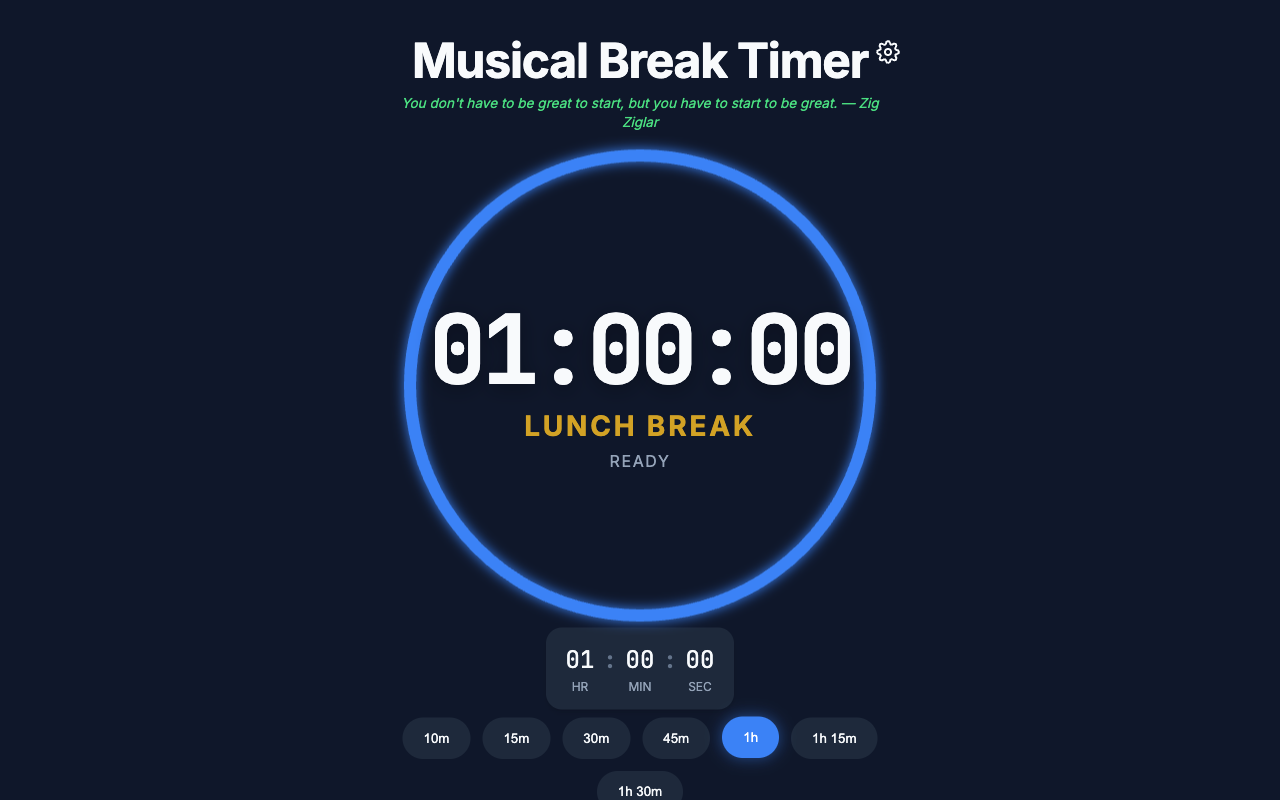
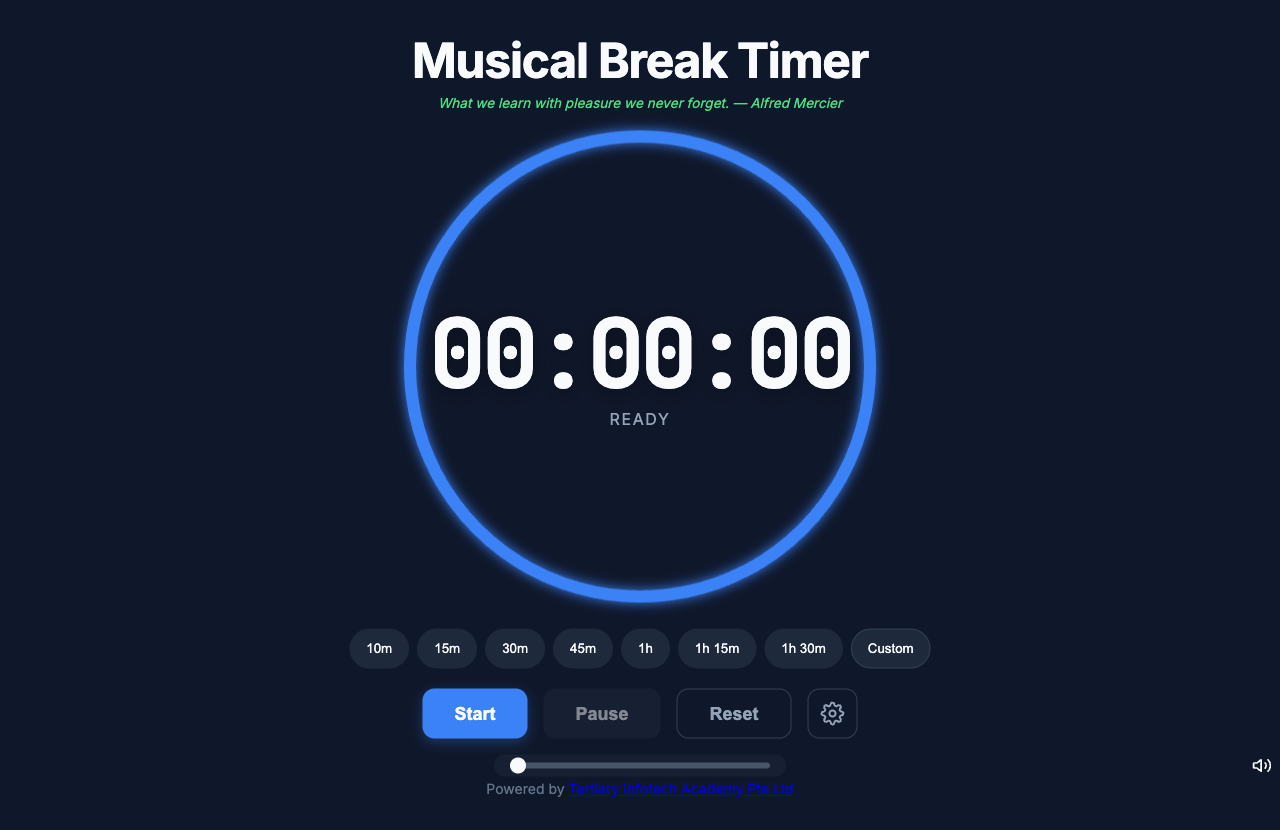
feat: one-row presets, Custom HR:MIN time, settings gear beside Reset
- Put all presets (10m to 1h 30m) on a single row; scrolls sideways on narrow screens
- Add a Custom button that reveals an HR:MIN input (seconds field removed)
- Inputs select on focus and keep two digits, so typing over "00" gives "20"
- Move the settings gear from the header to the right of the Reset button
- Update README, user guide and screenshot

diff --git a/index.html b/index.html
@@ -18,13 +18,6 @@
         <header>
             <h1>Musical Break Timer</h1>
             <p id="motivational-quote"></p>
-            <button id="settings-btn" class="icon-button" aria-label="Settings">
-                <svg xmlns="http://www.w3.org/2000/svg" width="24" height="24" viewBox="0 0 24 24" fill="none"
-                    stroke="currentColor" stroke-width="2" stroke-linecap="round" stroke-linejoin="round">
-                    <circle cx="12" cy="12" r="3"></circle>
-                    <path d="M19.4 15a1.65 1.65 0 0 0 .33 1.82l.06.06a2 2 0 0 1 0 2.83 2 2 0 0 1-2.83 0l-.06-.06a1.65 1.65 0 0 0-1.82-.33 1.65 1.65 0 0 0-1 1.51V21a2 2 0 0 1-2 2 2 2 0 0 1-2-2v-.09A1.65 1.65 0 0 0 9 19.4a1.65 1.65 0 0 0-1.82.33l-.06.06a2 2 0 0 1-2.83 0 2 2 0 0 1 0-2.83l.06-.06a1.65 1.65 0 0 0 .33-1.82 1.65 1.65 0 0 0-1.51-1H3a2 2 0 0 1-2-2 2 2 0 0 1 2-2h.09A1.65 1.65 0 0 0 4.6 9a1.65 1.65 0 0 0-.33-1.82l-.06-.06a2 2 0 0 1 0-2.83 2 2 0 0 1 2.83 0l.06.06a1.65 1.65 0 0 0 1.82.33H9a1.65 1.65 0 0 0 1-1.51V3a2 2 0 0 1 2-2 2 2 0 0 1 2 2v.09a1.65 1.65 0 0 0 1 1.51 1.65 1.65 0 0 0 1.82-.33l.06-.06a2 2 0 0 1 2.83 0 2 2 0 0 1 0 2.83l-.06.06a1.65 1.65 0 0 0-.33 1.82V9a1.65 1.65 0 0 0 1.51 1H21a2 2 0 0 1 2 2 2 2 0 0 1-2 2h-.09a1.65 1.65 0 0 0-1.51 1z"></path>
-                </svg>
-            </button>
         </header>
 
         <!-- Settings Modal -->
@@ -106,26 +99,6 @@
                 </div>
             </div>
 
-            <!-- Manual Input (Hidden when running) -->
-            <div class="input-section" id="input-section">
-                <div class="time-inputs">
-                    <div class="input-group">
-                        <input type="number" id="input-hours" min="0" max="99" placeholder="0">
-                        <label>HR</label>
-                    </div>
-                    <div class="separator">:</div>
-                    <div class="input-group">
-                        <input type="number" id="input-minutes" min="0" max="59" placeholder="0">
-                        <label>MIN</label>
-                    </div>
-                    <div class="separator">:</div>
-                    <div class="input-group">
-                        <input type="number" id="input-seconds" min="0" max="59" placeholder="0">
-                        <label>SEC</label>
-                    </div>
-                </div>
-            </div>
-
             <!-- Presets -->
             <div class="presets">
                 <button class="preset-btn" data-time="600">10m</button>
@@ -135,6 +108,23 @@
                 <button class="preset-btn" data-time="3600">1h</button>
                 <button class="preset-btn" data-time="4500">1h 15m</button>
                 <button class="preset-btn" data-time="5400">1h 30m</button>
+                <button id="custom-time-btn" class="preset-btn custom-time-btn" aria-expanded="false"
+                    aria-controls="input-section">Custom</button>
+            </div>
+
+            <!-- Custom time input (shown after pressing Custom) -->
+            <div class="input-section hidden" id="input-section">
+                <div class="time-inputs">
+                    <div class="input-group">
+                        <input type="number" id="input-hours" min="0" max="99" placeholder="00" aria-label="Hours">
+                        <label for="input-hours">HR</label>
+                    </div>
+                    <div class="separator">:</div>
+                    <div class="input-group">
+                        <input type="number" id="input-minutes" min="0" max="59" placeholder="00" aria-label="Minutes">
+                        <label for="input-minutes">MIN</label>
+                    </div>
+                </div>
             </div>
 
             <!-- Controls -->
@@ -142,6 +132,13 @@
                 <button id="start-btn" class="control-btn primary">Start</button>
                 <button id="pause-btn" class="control-btn secondary" disabled>Pause</button>
                 <button id="reset-btn" class="control-btn destr">Reset</button>
+                <button id="settings-btn" class="control-btn settings-control" title="Settings" aria-label="Settings">
+                    <svg xmlns="http://www.w3.org/2000/svg" width="24" height="24" viewBox="0 0 24 24" fill="none"
+                        stroke="currentColor" stroke-width="2" stroke-linecap="round" stroke-linejoin="round">
+                        <circle cx="12" cy="12" r="3"></circle>
+                        <path d="M19.4 15a1.65 1.65 0 0 0 .33 1.82l.06.06a2 2 0 0 1 0 2.83 2 2 0 0 1-2.83 0l-.06-.06a1.65 1.65 0 0 0-1.82-.33 1.65 1.65 0 0 0-1 1.51V21a2 2 0 0 1-2 2 2 2 0 0 1-2-2v-.09A1.65 1.65 0 0 0 9 19.4a1.65 1.65 0 0 0-1.82.33l-.06.06a2 2 0 0 1-2.83 0 2 2 0 0 1 0-2.83l.06-.06a1.65 1.65 0 0 0 .33-1.82 1.65 1.65 0 0 0-1.51-1H3a2 2 0 0 1-2-2 2 2 0 0 1 2-2h.09A1.65 1.65 0 0 0 4.6 9a1.65 1.65 0 0 0-.33-1.82l-.06-.06a2 2 0 0 1 0-2.83 2 2 0 0 1 2.83 0l.06.06a1.65 1.65 0 0 0 1.82.33H9a1.65 1.65 0 0 0 1-1.51V3a2 2 0 0 1 2-2 2 2 0 0 1 2 2v.09a1.65 1.65 0 0 0 1 1.51 1.65 1.65 0 0 0 1.82-.33l.06-.06a2 2 0 0 1 2.83 0 2 2 0 0 1 0 2.83l-.06.06a1.65 1.65 0 0 0-.33 1.82V9a1.65 1.65 0 0 0 1.51 1H21a2 2 0 0 1 2 2 2 2 0 0 1-2 2h-.09a1.65 1.65 0 0 0-1.51 1z"></path>
+                    </svg>
+                </button>
                 <button id="stop-alarm-btn" class="control-btn stop hidden">Stop Alarm</button>
             </div>
 

diff --git a/javascript/script.js b/javascript/script.js
@@ -11,11 +11,11 @@ class Timer {
         this.stopAlarmBtn = document.getElementById('stop-alarm-btn');
         this.inputInputs = {
             h: document.getElementById('input-hours'),
-            m: document.getElementById('input-minutes'),
-            s: document.getElementById('input-seconds')
+            m: document.getElementById('input-minutes')
         };
         this.inputSection = document.getElementById('input-section');
-        this.presetBtns = document.querySelectorAll('.preset-btn');
+        this.presetBtns = document.querySelectorAll('.preset-btn[data-time]');
+        this.customTimeBtn = document.getElementById('custom-time-btn');
         this.timeSlider = document.getElementById('time-slider');
 
         // Sound Elements
@@ -225,6 +225,9 @@ class Timer {
             });
         });
 
+        // Custom time: reveal the HR:MIN inputs
+        this.customTimeBtn.addEventListener('click', () => this.toggleCustomInput());
+
         // Time slider: drag forward/backward to adjust time (also while running)
         this.timeSlider.addEventListener('input', (e) => {
             this.adjustTime(Math.round(parseFloat(e.target.value)));
@@ -236,7 +239,12 @@ class Timer {
 
         // Manual Input Changes
         Object.values(this.inputInputs).forEach(input => {
-            input.addEventListener('input', () => this.handleInputChange());
+            input.addEventListener('focus', () => input.select());
+            input.addEventListener('input', () => {
+                // Keep at most two digits (typing over "00" gives "20", not "0020")
+                if (input.value.length > 2) input.value = input.value.slice(-2);
+                this.handleInputChange();
+            });
             input.addEventListener('change', () => this.validateInputs());
         });
 
@@ -360,9 +368,8 @@ class Timer {
     handleInputChange() {
         const h = parseInt(this.inputInputs.h.value) || 0;
         const m = parseInt(this.inputInputs.m.value) || 0;
-        const s = parseInt(this.inputInputs.s.value) || 0;
 
-        const total = (h * 3600) + (m * 60) + s;
+        const total = (h * 3600) + (m * 60);
 
         // Update internal state so start() uses the new values
         this.totalSeconds = total;
@@ -377,13 +384,8 @@ class Timer {
     validateInputs() {
         let h = parseInt(this.inputInputs.h.value) || 0;
         let m = parseInt(this.inputInputs.m.value) || 0;
-        let s = parseInt(this.inputInputs.s.value) || 0;
 
-        // Clamping logic if needed, or simple rollover
-        if (s > 59) {
-            m += Math.floor(s / 60);
-            s = s % 60;
-        }
+        // Roll minutes over into hours
         if (m > 59) {
             h += Math.floor(m / 60);
             m = m % 60;
@@ -391,7 +393,6 @@ class Timer {
 
         this.inputInputs.h.value = h.toString().padStart(2, '0');
         this.inputInputs.m.value = m.toString().padStart(2, '0');
-        this.inputInputs.s.value = s.toString().padStart(2, '0');
 
         this.handleInputChange();
     }
@@ -422,12 +423,11 @@ class Timer {
         // Update Inputs to match preset
         const h = Math.floor(seconds / 3600);
         const m = Math.floor((seconds % 3600) / 60);
-        const s = seconds % 60;
 
         this.inputInputs.h.value = h.toString().padStart(2, '0');
         this.inputInputs.m.value = m.toString().padStart(2, '0');
-        this.inputInputs.s.value = s.toString().padStart(2, '0');
 
+        this.setCustomInputVisible(false);
         this.updateDisplay(seconds);
 
         // Visuals
@@ -442,8 +442,7 @@ class Timer {
         if (this.remainingSeconds === 0 && !this.isPaused) {
             const h = parseInt(this.inputInputs.h.value) || 0;
             const m = parseInt(this.inputInputs.m.value) || 0;
-            const s = parseInt(this.inputInputs.s.value) || 0;
-            const total = (h * 3600) + (m * 60) + s;
+            const total = (h * 3600) + (m * 60);
 
             if (total === 0) return; // Don't start 0
 
@@ -507,17 +506,29 @@ class Timer {
     syncInputsToTime(seconds) {
         const h = Math.floor(seconds / 3600);
         const m = Math.floor((seconds % 3600) / 60);
-        const s = seconds % 60;
 
         if (seconds === 0) {
             this.inputInputs.h.value = '';
             this.inputInputs.m.value = '';
-            this.inputInputs.s.value = '';
         } else {
-            this.inputInputs.h.value = h > 0 ? h.toString().padStart(2, '0') : '';
-            this.inputInputs.m.value = (m > 0 || h > 0) ? m.toString().padStart(2, '0') : '';
-            this.inputInputs.s.value = s.toString().padStart(2, '0');
+            this.inputInputs.h.value = h.toString().padStart(2, '0');
+            this.inputInputs.m.value = m.toString().padStart(2, '0');
         }
+    }
+
+    toggleCustomInput() {
+        const open = this.inputSection.classList.contains('hidden');
+        this.setCustomInputVisible(open);
+        if (open) {
+            this.presetBtns.forEach(b => b.classList.remove('active'));
+            if (!this.isRunning) this.inputInputs.h.focus();
+        }
+    }
+
+    setCustomInputVisible(visible) {
+        this.inputSection.classList.toggle('hidden', !visible);
+        this.customTimeBtn.classList.toggle('active', visible);
+        this.customTimeBtn.setAttribute('aria-expanded', String(visible));
     }
 
     complete() {

diff --git a/docs/index.html b/docs/index.html
@@ -276,11 +276,11 @@
             <div class="feature-grid">
                 <div class="feature-item">
                     <h4>Preset Times</h4>
-                    <p>Quick buttons for 15m, 30m, 45m, 1h, 1h 15m, and 1h 30m</p>
+                    <p>Quick buttons for 10m, 15m, 30m, 45m, 1h, 1h 15m, and 1h 30m, all in one row</p>
                 </div>
                 <div class="feature-item">
                     <h4>Custom Input</h4>
-                    <p>Enter any time in hours, minutes, and seconds</p>
+                    <p>Press <strong>Custom</strong> to set any time in hours and minutes</p>
                 </div>
                 <div class="feature-item">
                     <h4>Visual Progress</h4>
@@ -305,11 +305,11 @@
             </div>
 
             <div class="card">
-                <h3>Method 2: Manual Entry</h3>
-                <p>Enter a custom time using the input fields:</p>
+                <h3>Method 2: Custom Time</h3>
+                <p>Set your own time in hours and minutes:</p>
                 <ul class="steps">
-                    <li>Click on the HR, MIN, or SEC input field</li>
-                    <li>Type your desired time (values auto-adjust if you enter more than 59 for minutes/seconds)</li>
+                    <li>Press the <kbd>Custom</kbd> button at the end of the preset row to show the HR : MIN fields</li>
+                    <li>Type your desired time (minutes above 59 roll over into hours)</li>
                     <li>Click <kbd>Start</kbd> to begin the countdown</li>
                 </ul>
             </div>
@@ -355,7 +355,7 @@
 
             <h3>Choosing an Alarm Sound</h3>
             <ol class="steps">
-                <li>Click the <strong>gear icon</strong> in the top-right corner to open Settings</li>
+                <li>Click the <strong>gear icon</strong> to the right of the Reset button to open Settings</li>
                 <li>In the "Alarm Sound" section, choose from: <strong>Dream</strong>, <strong>Inspire</strong>, <strong>Wing</strong>, or <strong>Custom</strong></li>
                 <li>Click <kbd>Preview Sound</kbd> to hear your selection</li>
                 <li>Your choice is saved automatically</li>
@@ -408,7 +408,7 @@
 
             <div class="card">
                 <h3>Keyboard Shortcuts</h3>
-                <p>While focused on an input field, use <kbd>Tab</kbd> to move between hours, minutes, and seconds fields.</p>
+                <p>While focused on an input field, use <kbd>Tab</kbd> to move between the hours and minutes fields.</p>
             </div>
 
             <div class="card">

diff --git a/css/style.css b/css/style.css
@@ -191,8 +191,10 @@ h1 {
     width: 100%;
     display: flex;
     justify-content: center;
-    margin-top: -1rem;
-    /* pull up closer to display when visible */
+}
+
+.preset-btn.custom-time-btn {
+    border-color: #334155;
 }
 
 .time-inputs {
@@ -251,17 +253,27 @@ h1 {
 /* Presets */
 .presets {
     display: flex;
-    flex-wrap: wrap;
-    justify-content: center;
-    gap: 0.75rem;
-    width: 100%;
+    flex-wrap: nowrap;
+    justify-content: flex-start;
+    gap: 0.5rem;
+    width: max-content;
+    max-width: calc(100vw - 2rem);
+    overflow-x: auto;
+    padding: 0.25rem;
+    scrollbar-width: none;
+}
+
+.presets::-webkit-scrollbar {
+    display: none;
 }
 
 .preset-btn {
     background: var(--secondary-color);
     border: 1px solid transparent;
     color: var(--text-color);
-    padding: 0.75rem 1.25rem;
+    padding: 0.7rem 1rem;
+    white-space: nowrap;
+    flex-shrink: 0;
     border-radius: 9999px;
     cursor: pointer;
     font-weight: 500;
@@ -336,6 +348,23 @@ h1 {
     color: var(--danger-color);
     border-color: var(--danger-color);
     background: rgba(239, 68, 68, 0.1);
+}
+
+.control-btn.settings-control {
+    background: transparent;
+    color: #94a3b8;
+    border: 1px solid #334155;
+    padding: 0.75rem;
+    min-width: 0;
+    display: inline-flex;
+    align-items: center;
+    justify-content: center;
+}
+
+.control-btn.settings-control:hover {
+    color: var(--text-color);
+    border-color: var(--primary-color);
+    background: rgba(59, 130, 246, 0.1);
 }
 
 .control-btn.stop {
@@ -460,20 +489,24 @@ footer {
     }
 
     .preset-btn {
-        padding: 0.5rem 1rem;
+        padding: 0.5rem 0.8rem;
         font-size: 0.875rem;
     }
 
     .controls {
         flex-wrap: wrap;
         justify-content: center;
-        gap: 0.75rem;
+        gap: 0.5rem;
     }
 
     .control-btn {
         padding: 0.625rem 1.5rem;
         font-size: 1rem;
         min-width: 90px;
+    }
+
+    .control-btn.settings-control {
+        padding: 0.625rem;
     }
 
     .sound-controls {

diff --git a/README.md b/README.md
@@ -21,7 +21,7 @@ A sleek, modern countdown timer built with vanilla HTML, CSS, and JavaScript. De
 - **Preset Times**: Quick-start buttons for 10m, 15m, 30m, 45m, 1h, 1h 15m, and 1h 30m
 - **Progress Slider**: Shows time elapsed; drag it left to reduce the time remaining, even while the timer is running
 - **Break Label**: A flashing label below the countdown — "Lunch Break" for 1h or 1h 15m, "Tea Break" for any other duration
-- **Manual Input**: Enter custom hours, minutes, and seconds
+- **Custom Time**: Press **Custom** to set any duration in hours and minutes
 - **Accurate Timing**: Uses `Date.now()` for drift-free countdown accuracy
 - **Visual Progress Ring**: Animated circular progress indicator shows remaining time
 - **Pause & Resume**: Pause the timer and resume from where you left off
@@ -44,7 +44,7 @@ A sleek, modern countdown timer built with vanilla HTML, CSS, and JavaScript. De
 
 ### Setting a Timer
 1. **Using Presets**: Click any preset button (10m, 15m, 30m, 45m, 1h, 1h 15m, 1h 30m)
-2. **Manual Entry**: Type your desired time in the HR:MIN:SEC input fields
+2. **Custom Time**: Press **Custom**, then type your time in the HR:MIN fields
 
 ### Timer Controls
 - **Start**: Begins the countdown
@@ -57,7 +57,7 @@ A sleek, modern countdown timer built with vanilla HTML, CSS, and JavaScript. De
 - Click **Stop Alarm** to silence the alarm and reset
 
 ### Customizing Settings
-1. Click the **gear icon** (top right) to open Settings
+1. Click the **gear icon** (right of the Reset button) to open Settings
 2. **Alarm Sound**: Select from built-in sounds or choose "Custom" to upload your own MP3
 3. **Custom Upload**: Click "Upload MP3" to select a file (max 5MB)
 4. **Color Theme**: Choose from 6 beautiful color schemes
